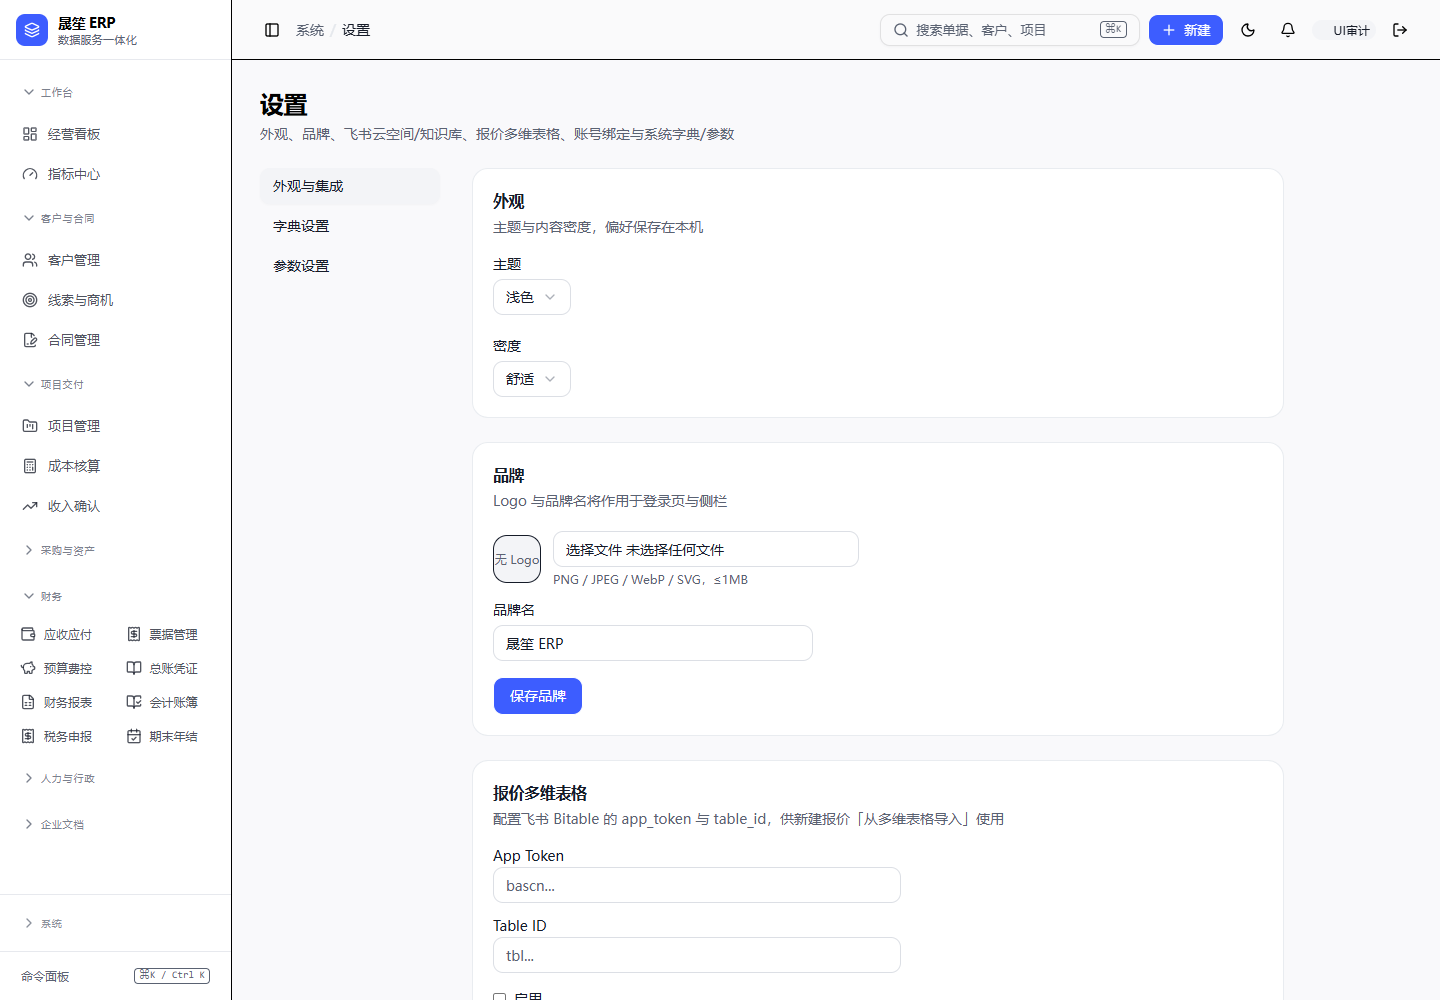
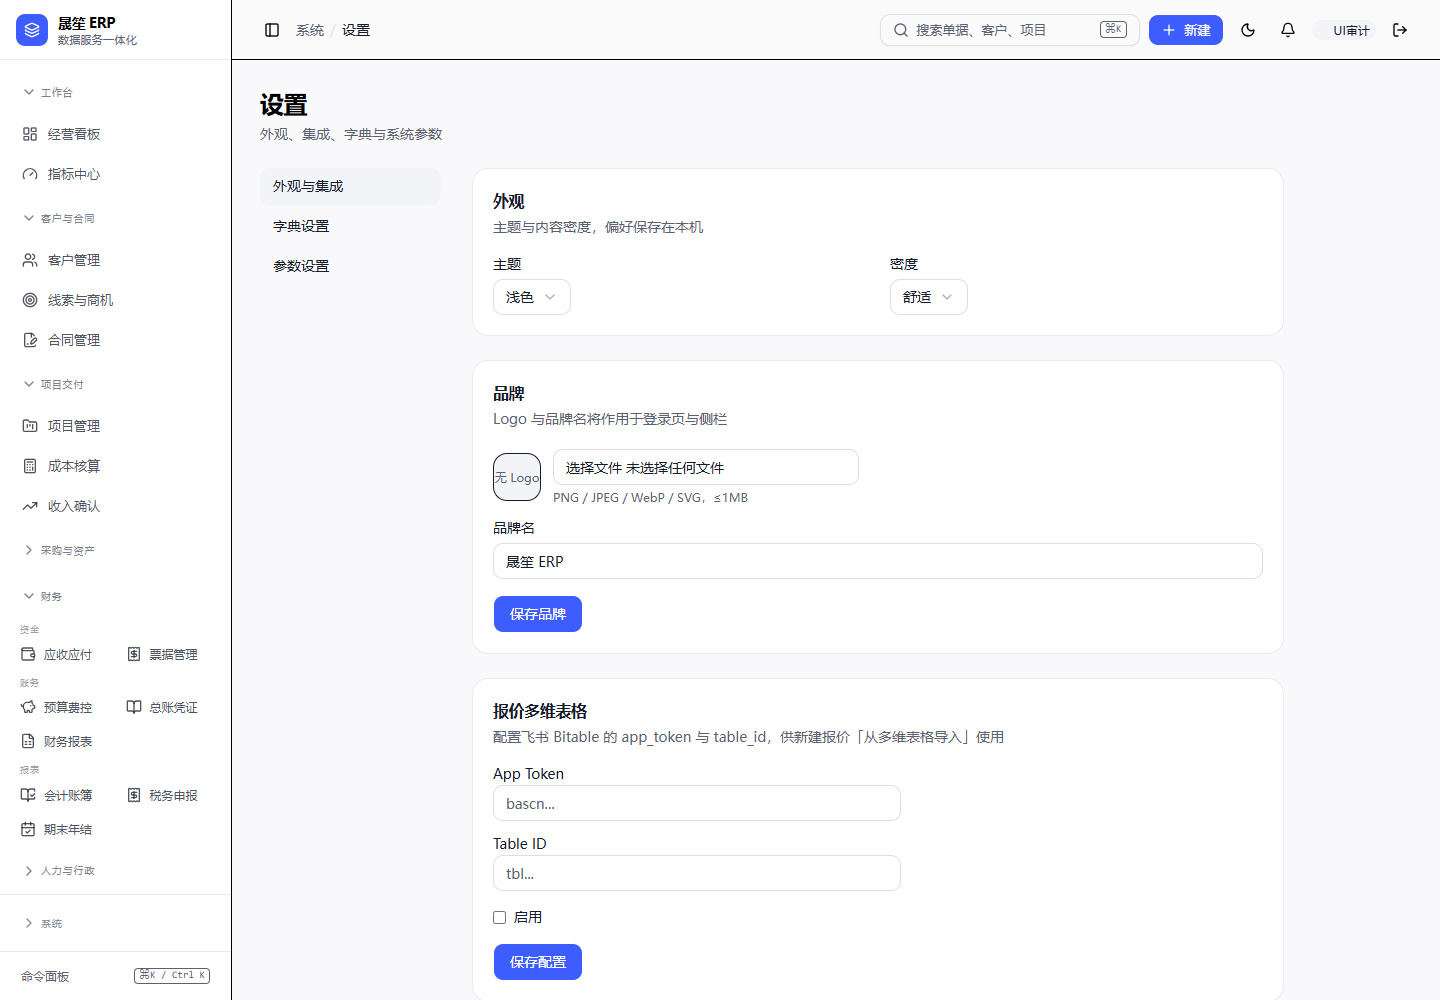
fix(ui): 财务导航子分组与 React 运行时修复

diff --git a/client/src/components/Layout.tsx b/client/src/components/Layout.tsx
@@ -1,4 +1,4 @@
-import { useEffect, useMemo, useState } from 'react';
+import React, { useEffect, useMemo, useState } from 'react';
 import { NavLink, Outlet, useLocation } from 'react-router-dom';
 import { ChevronDown, ChevronRight, LogOut, PanelLeft, Plus, Search } from 'lucide-react';
 import { useAuth, useCurrentUserProfile } from '@client/src/platform/auth';
@@ -398,6 +398,7 @@ const Layout = () => (
 );
 
 export default Layout;
+
 
 
 
